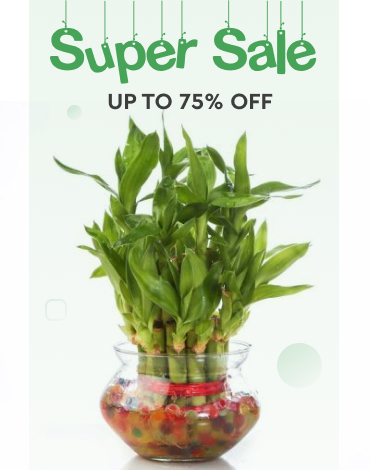
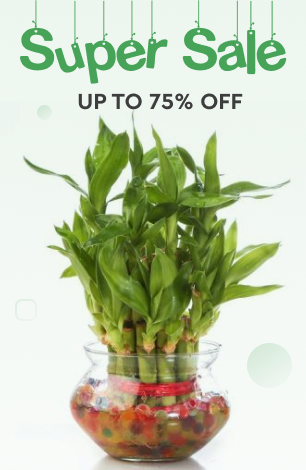
finish

diff --git a/index.html b/index.html
@@ -11,86 +11,110 @@
 <section class="app">
     <div class="container main-content">
         <aside class="sidebar">
-            <nav>
+            <div class="sidebar-nav-wrap">
                 <h4>Categories</h4>
-                <a href="#">House Plants</a>
-                <a href="#">Potter Plants</a>
-                <a href="#">Seeds</a>
-                <a href="#">Small Plants</a>
-                <a href="#">Big Plants</a>
-                <a href="#">Succulents</a>
-                <a href="#">Trerrariums</a>
-                <a href="#">Gardening</a>
-                <a href="#">Accessories</a>
-            </nav>
-            <img src="./images/sale.png" alt="sale">
+                <nav>
+                    <a class="active" href="#">House Plants</a>
+                    <a href="#">Potter Plants</a>
+                    <a href="#">Seeds</a>
+                    <a href="#">Small Plants</a>
+                    <a href="#">Big Plants</a>
+                    <a href="#">Succulents</a>
+                    <a href="#">Trerrariums</a>
+                    <a href="#">Gardening</a>
+                    <a href="#">Accessories</a>
+                </nav>
+            </div>
+            <img src="./images/sale.png" alt="sale" width="310" height="470">
         </aside>
         <main class="content">
             <div class="sort">
                 <nav class="sort-menu">
-                    <a href="#">All Plants</a>
+                    <a class="active" href="#">All Plants</a>
                     <a href="#">New Arrivals</a>
                     <a href="#">Sale</a>
                 </nav>
                 <div class="sort-right">
-                    <a href="#">Short by:Default sorting</a>
+                    <a href="#"><span>Short by:Default sorting</span></a>
                 </div>
             </div>
             <div class="cards">
                 <div class="card">
-                    <img src="./images/plant1.png" alt="plant1">
+                    <div class="card-image">
+                        <img src="./images/plant1.png" alt="plant1">
+                    </div>
                     <p class="card-title">Barberton Daisy</p>
                     <p class="plant-price">$119.00</p>
                 </div>
                 <div class="card">
-                    <img src="./images/plant2.png" alt="plant2">
+                    <div class="card-image">
+                        <img src="./images/plant2.png" alt="plant2">
+                    </div>
                     <p class="card-title">Angel Wing Begonia</p>
                     <p class="plant-price">$169.00</p>
                 </div>
                 <div class="card">
-                    <img src="./images/plant3.png" alt="plant3">
+                    <div class="card-image">
+                        <img src="./images/plant3.png" alt="plant3">
+                    </div>
                     <p class="card-title">African Violet</p>
                     <p class="plant-price">$199.00</p>
                 </div>
                 <div class="card">
-                    <img src="./images/plant4.png" alt="plant4">
+                    <div class="card-image">
+                        <img src="./images/plant4.png" alt="plant4">
+                    </div>
                     <p class="card-title">Beach Spider Lily</p>
                     <p class="plant-price">$129.00</p>
                 </div>
                 <div class="card">
-                    <img src="./images/plant5.png" alt="plant5">
+                    <div class="card-image">
+                        <img src="./images/plant5.png" alt="plant5">
+                    </div>
                     <p class="card-title">Blushing Bromeliad</p>
                     <p class="plant-price">$139.00</p>
                 </div>
                 <div class="card">
-                    <img src="./images/plant6.png" alt="plant6">
+                    <div class="card-image">
+                        <img src="./images/plant6.png" alt="plant6">
+                    </div>
                     <p class="card-title">Aluminum Plant</p>
                     <p class="plant-price">$179.00</p>
                 </div>
                 <div class="card">
-                    <img src="./images/plant7.png" alt="plant7">
+                    <div class="card-image">
+                        <img src="./images/plant7.png" alt="plant7">
+                    </div>
                     <p class="card-title">Bird's Nest Fern</p>
                     <p class="plant-price">$99.00</p>
                 </div>
                 <div class="card">
-                    <img src="./images/plant8.png" alt="plant8">
+                    <div class="card-image">
+                        <img src="./images/plant8.png" alt="plant8">
+                    </div>
                     <p class="card-title">Broadleaf Lady Palm</p>
                     <p class="plant-price">$59.00</p>
                 </div>
                 <div class="card">
-                    <img src="./images/plant9.png" alt="plant9">
+                    <div class="card-image">
+                        <img src="./images/plant9.png" alt="plant9">
+                    </div>
                     <p class="card-title">Chinese Evergreen</p>
                     <p class="plant-price">$39.00</p>
                 </div>
             </div>
-            <div class="pagination">
-                <a href="">1</a>
-                <a href="">2</a>
-                <a href="">3</a>
-                <a href="">4</a>
-                <img src="./icons/arrow-right.svg" alt="go to last page">
-            </div>
         </main>
+    </div>
+    <div class="container">
+        <div class="pagination">
+            <a class="active" href="#">1</a>
+            <a href="#">2</a>
+            <a href="#">3</a>
+            <a href="#">4</a>
+            <a href="#">
+                <img src="./icons/arrow-right.svg" alt="go to last page">
+            </a>
+        </div>
     </div>
 </section>
 </body>

diff --git a/styles/styles.css b/styles/styles.css
@@ -1,3 +1,21 @@
+:root {
+    --primary-bg: #FBFBFB;
+    --primary-color: #3D3D3D;
+    --secondary-color: #46A358;
+}
+
+body {
+    font-family: 'CeraPro', sans-serif;
+}
+
+h4 {
+    margin: 0;
+}
+
+p {
+    margin: 0;
+}
+
 .container {
     max-width: 1200px;
     width: 100%;
@@ -7,4 +25,142 @@
 .main-content {
     display: flex;
     column-gap: 50px;
+    margin-bottom: 90px;
 }
+
+.sidebar {
+    background-color: var(--primary-bg);
+    flex-basis: 310px;
+    padding-top: 30px;
+    display: flex;
+    flex-direction: column;
+    justify-content: space-between;
+}
+
+.content {
+    flex-basis: 100%;
+    padding: 30px 0;
+}
+
+.sidebar-nav-wrap {
+    padding-left: 18px;
+}
+
+.sidebar nav {
+    padding-left: 12px;
+    padding-top: 10px;
+}
+
+.sidebar nav a {
+    display: block;
+    color: var(--primary-color);
+    text-decoration: none;
+    margin-bottom: 10px;
+    font-size: 15px;
+    line-height: 25px;
+}
+
+.sidebar nav a.active {
+    color: var(--secondary-color);
+}
+
+.sort {
+    display: flex;
+    justify-content: space-between;
+}
+
+.sort nav a.active {
+    color: var(--secondary-color);
+    text-decoration: none;
+    font-size: 15px;
+    font-weight: bold;
+}
+
+.sort nav a {
+    color: var(--primary-color);
+    text-decoration: none;
+    font-size: 15px;
+}
+
+.sort-right a {
+    color: var(--primary-color);
+    text-decoration: none;
+    font-size: 15px;
+
+}
+
+.sort-right a::after {
+    content: "";
+    background: url("../icons/arrow-down.svg") no-repeat;
+    display: inline-block;
+    width: 16px; height: 16px;
+    margin-top: 4px;
+    margin-left: 5px;
+}
+
+.sort-right a {
+    display: flex;
+    align-items: center;
+}
+
+ .sort-menu a {
+     margin-right: 37px;
+ }
+
+ .sort-menu a.active {
+     border-bottom: 2px solid var(--secondary-color);
+     padding-bottom: 7px;
+ }
+
+ .cards {
+     margin-top: 31px;
+     display: flex;
+     flex-wrap: wrap;
+     gap: 33px;
+ }
+
+ .card-title {
+     font-size: 16px;
+     margin-bottom: 6px;
+ }
+
+ .plant-price {
+     font-size: 18px;
+     font-weight: bold;
+     color: var(--secondary-color);
+
+ }
+
+ .card-image {
+     width: 250px;
+     height: 250px;
+     margin-bottom: 10px;
+     text-align: center;
+ }
+
+ .card-image img {
+     height: 100%;
+ }
+
+ .pagination {
+     display: flex;
+     justify-content: flex-end;
+     gap: 10px;
+     padding-bottom: 30px;
+ }
+
+ .pagination a {
+     width: 35px;
+     height: 35px;
+     border: 1px solid #E5E5E5;
+     border-radius: 4px;
+     text-decoration: none;
+     display: flex;
+     justify-content: center;
+     align-items: center;
+ }
+
+ .pagination a.active {
+     background-color: var(--secondary-color);
+     color: white;
+ }
